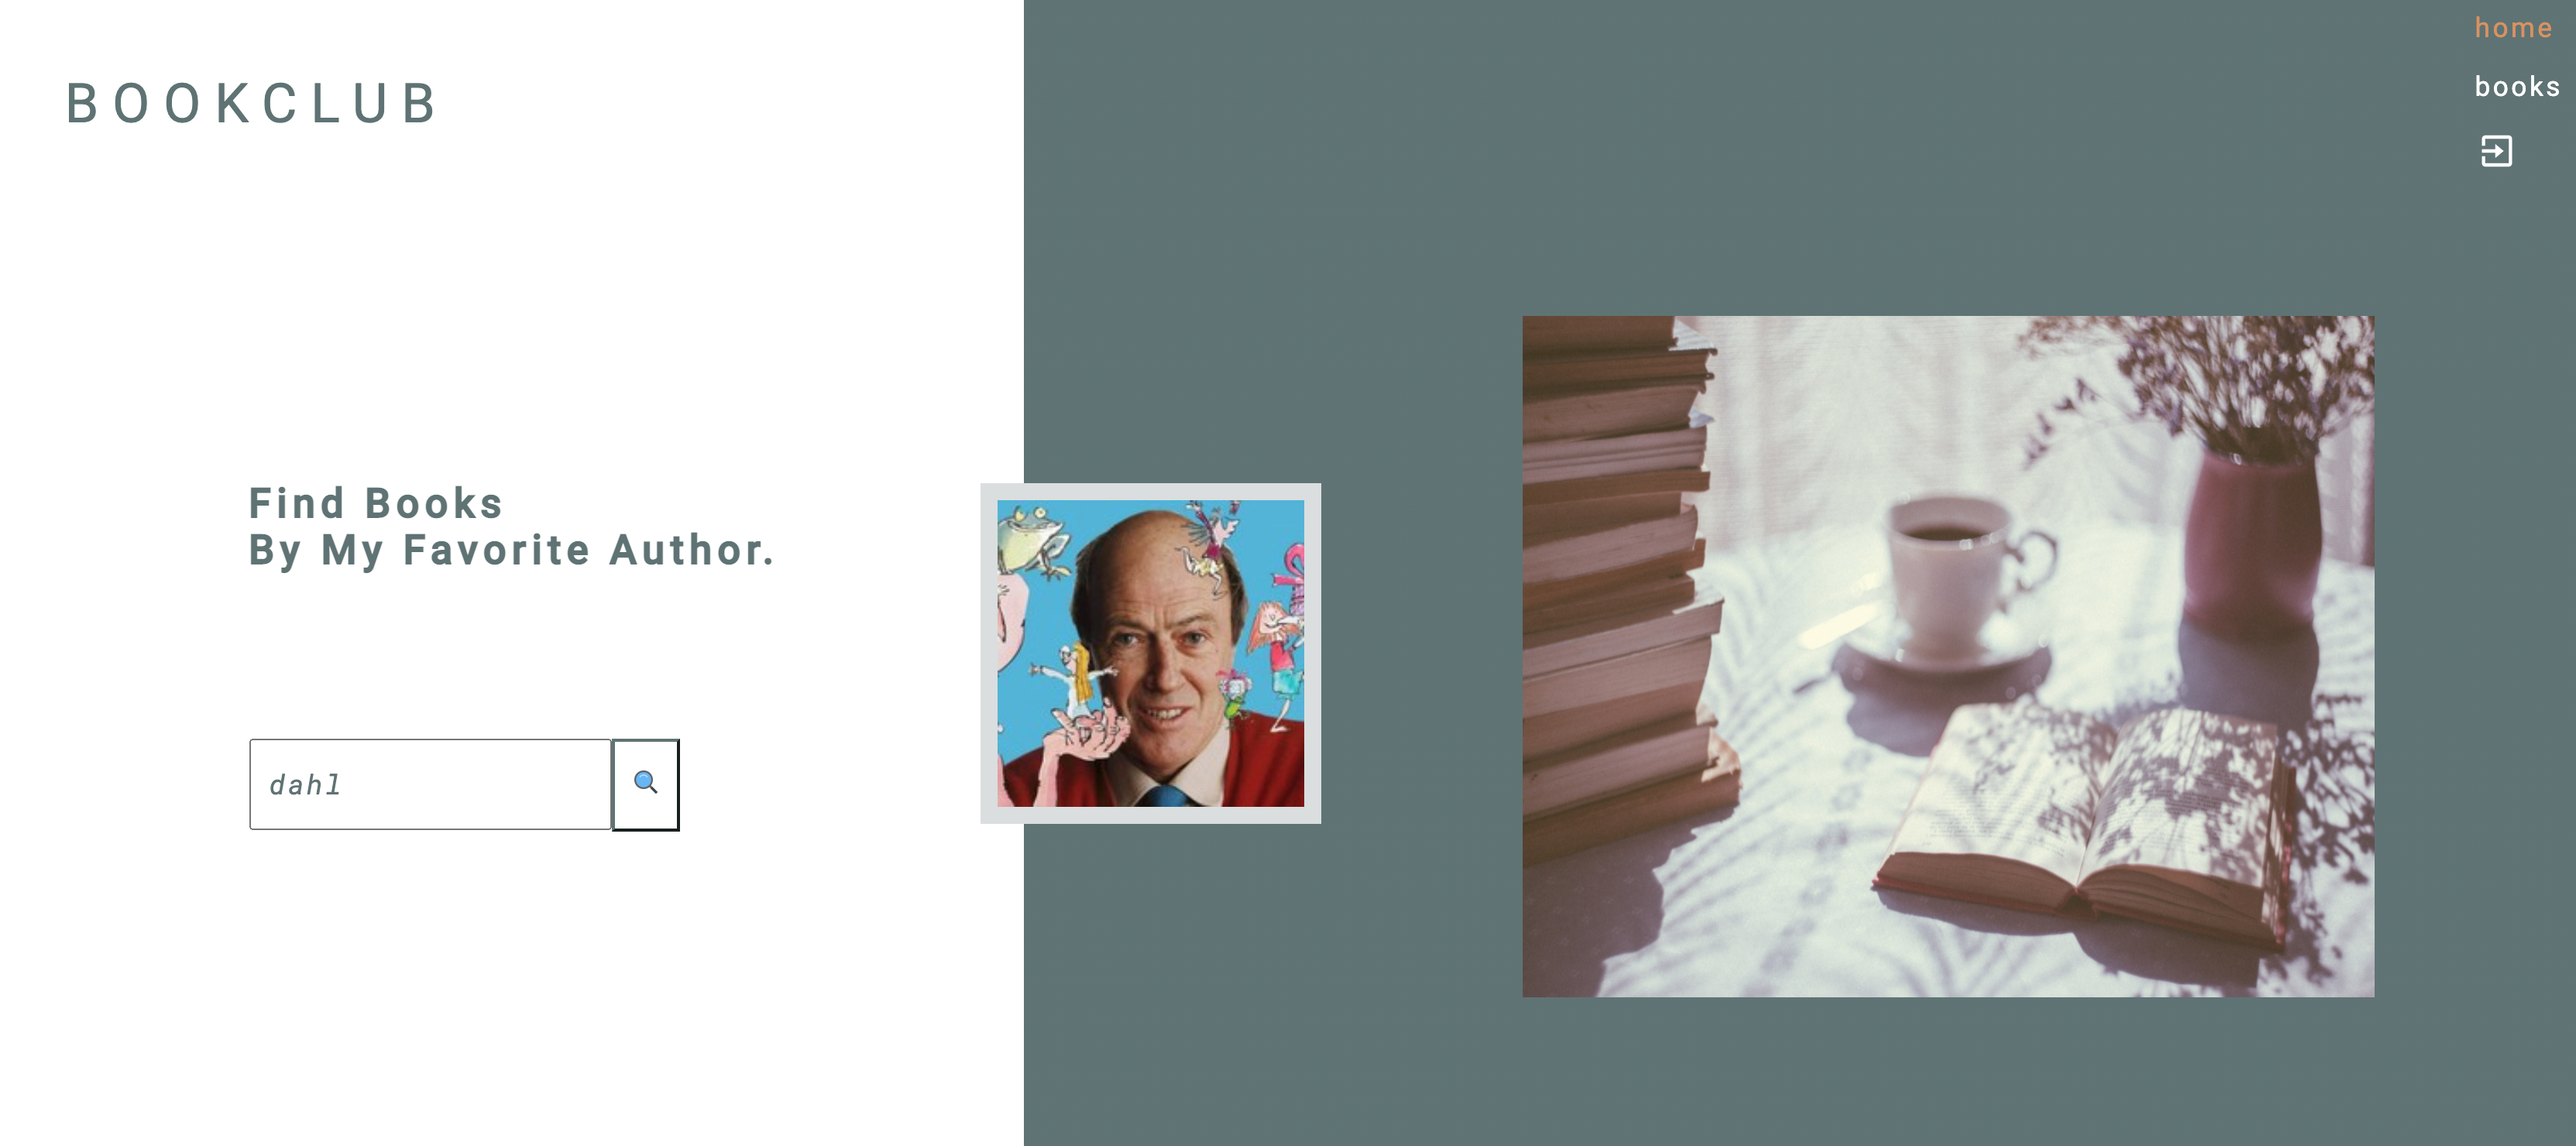
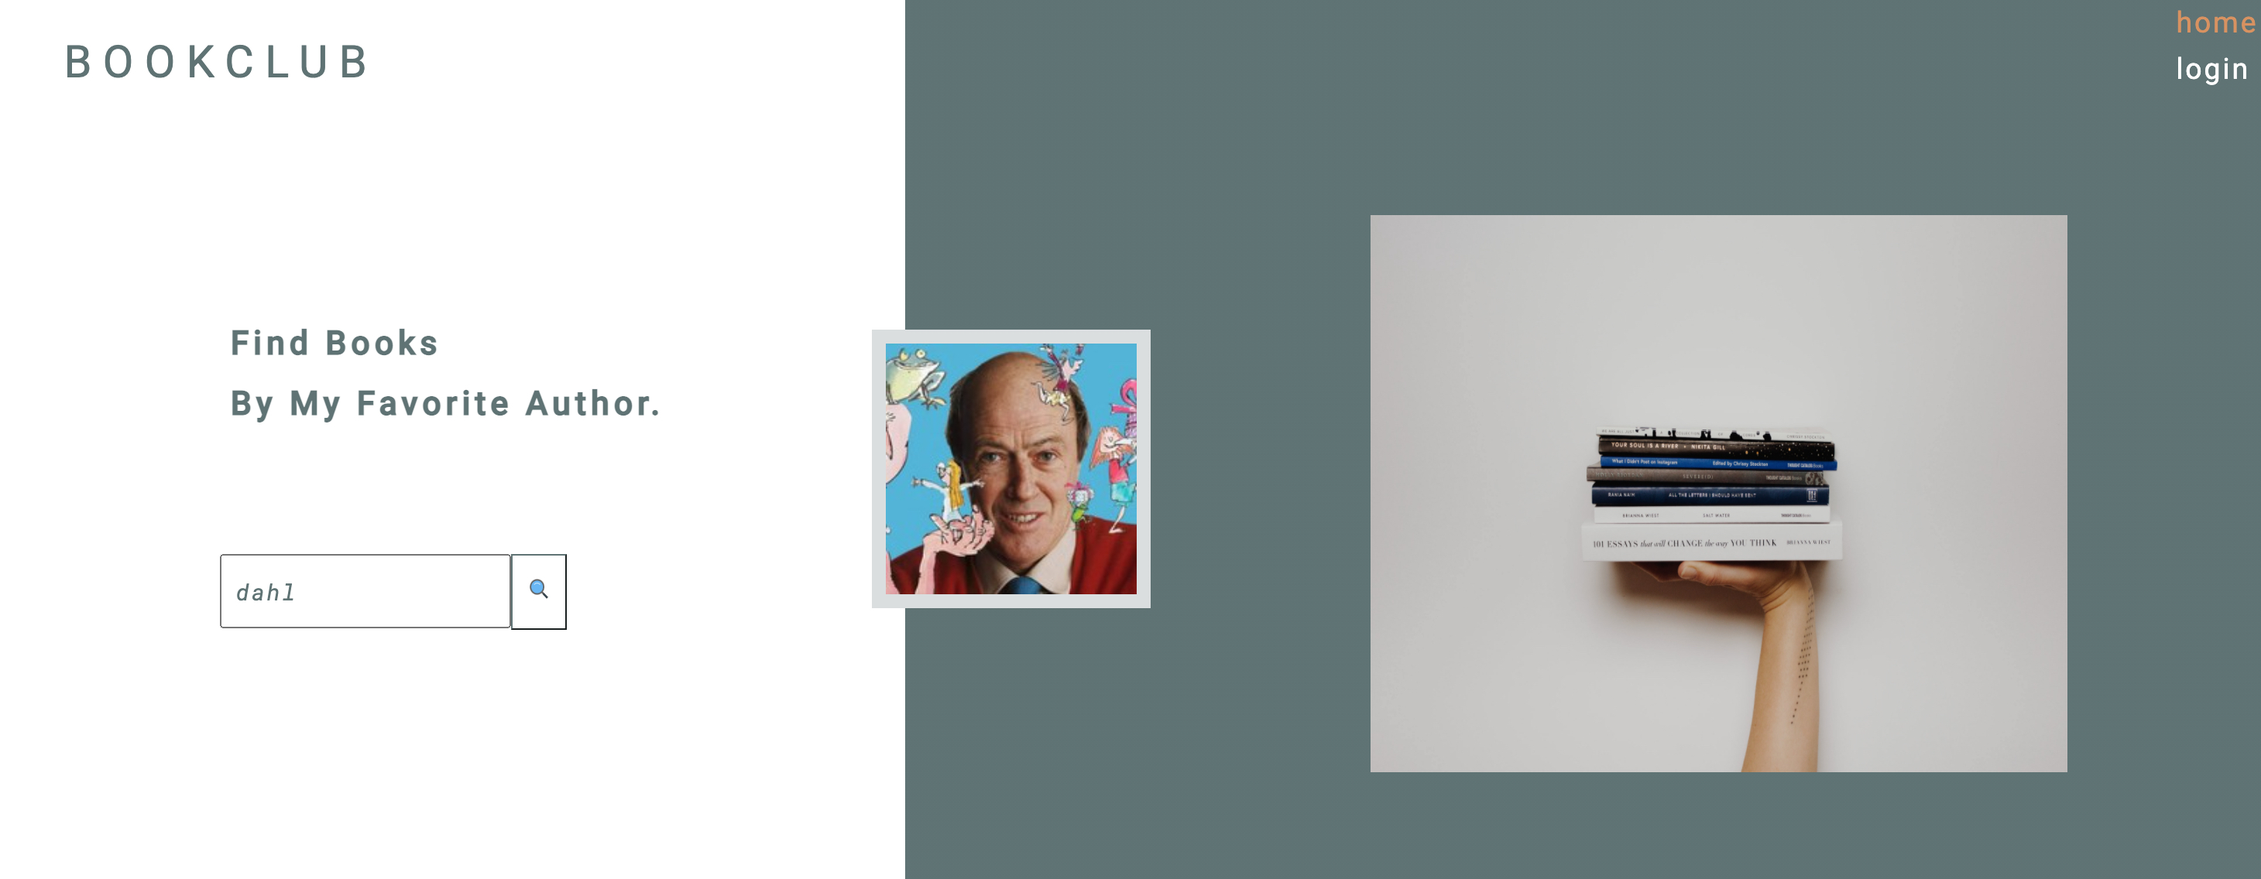
read.me

diff --git a/README.md b/README.md
@@ -16,11 +16,25 @@
 
 In deze READ.me is een beschrijving terug te vinden voor de webapplicatie “BOOKCLUB”. Het doel van deze website is om bij te dragen aan de modernisatie van de huidige boekenwereld. Het creëren van een online landschap voor boekliefhebbers en/of voor de toekomstige boekliefhebber. Met tevens als missie, verschillende doelgroepen aan te spreken, zowel jong als oud. De webapplicatie heeft daarom een modern en hedendaags design zodat het kan meegroeien met de tijd en makkelijk is in gebruik. Hierdoor is de applicatie voor iedereen toegankelijk. Heeft men een favoriete schrijver? Dan kan de gebruiker meer inspiratie opdoen en middels de auteursnaam andere titels opvragen. Daarna kunnen deze titels worden opgeslagen in een persoonlijke boekenlijst, die via een webbrowser overal toegankelijk is.
 
-
-
 Het project is opgezet met Create React App.
 
-![schermafbeelding](../../assets/scherm1.jpg)
+
+**Home:**
+
+![schermafbeelding](./src/assets/scherm1.jpg)
+![schermafbeelding](./src/assets/scherm2.jpg)
+
+
+**Register:**
+
+![schermafbeelding](./src/assets/scherm3.jpg)
+
+**Boekenlijst:**
+
+![schermafbeelding](./src/assets/scherm4.jpg)
+
+
+
 
 ##<FONT COLOR="#5e7374">  BENODIGDHEDEN </FONT>
 * Node.js
